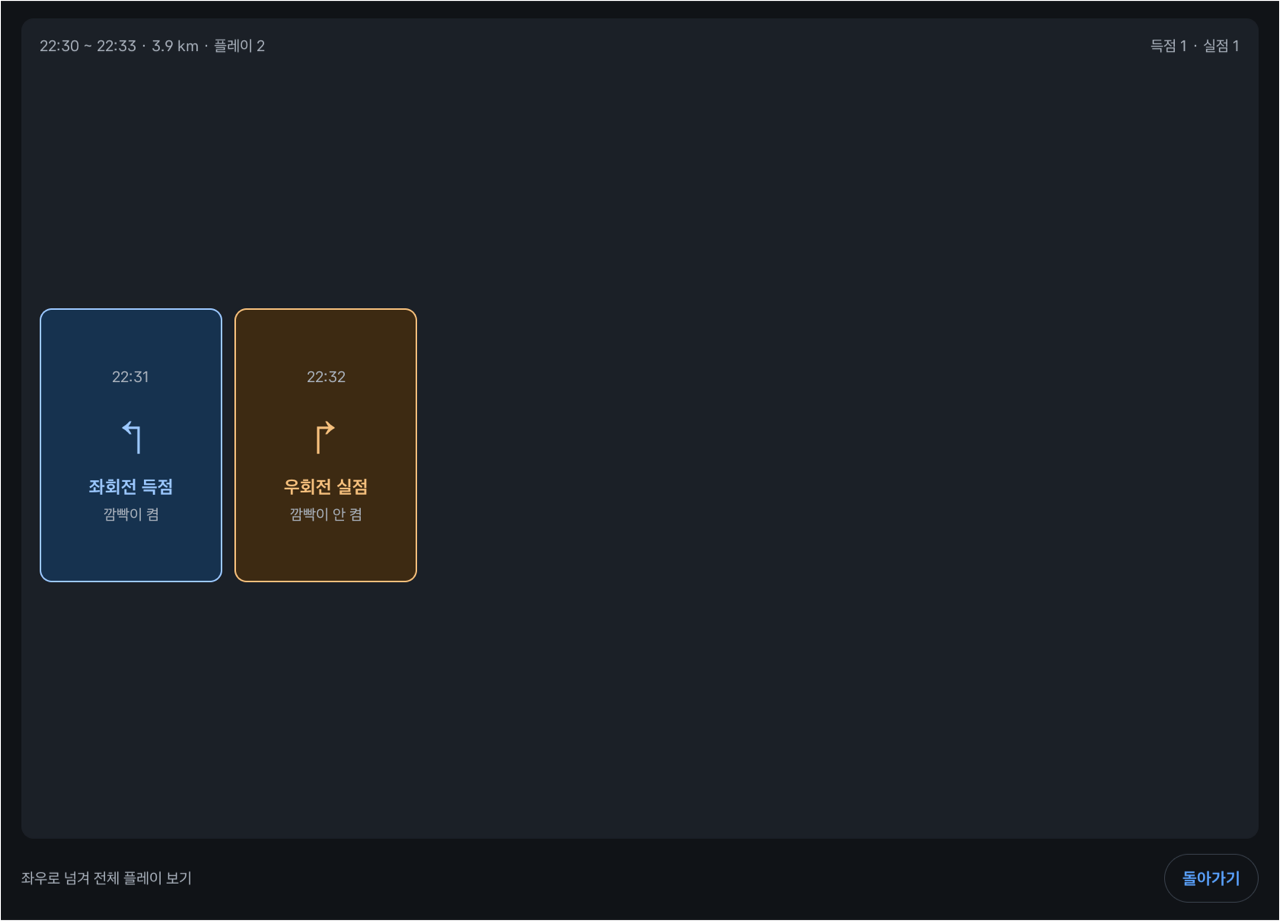
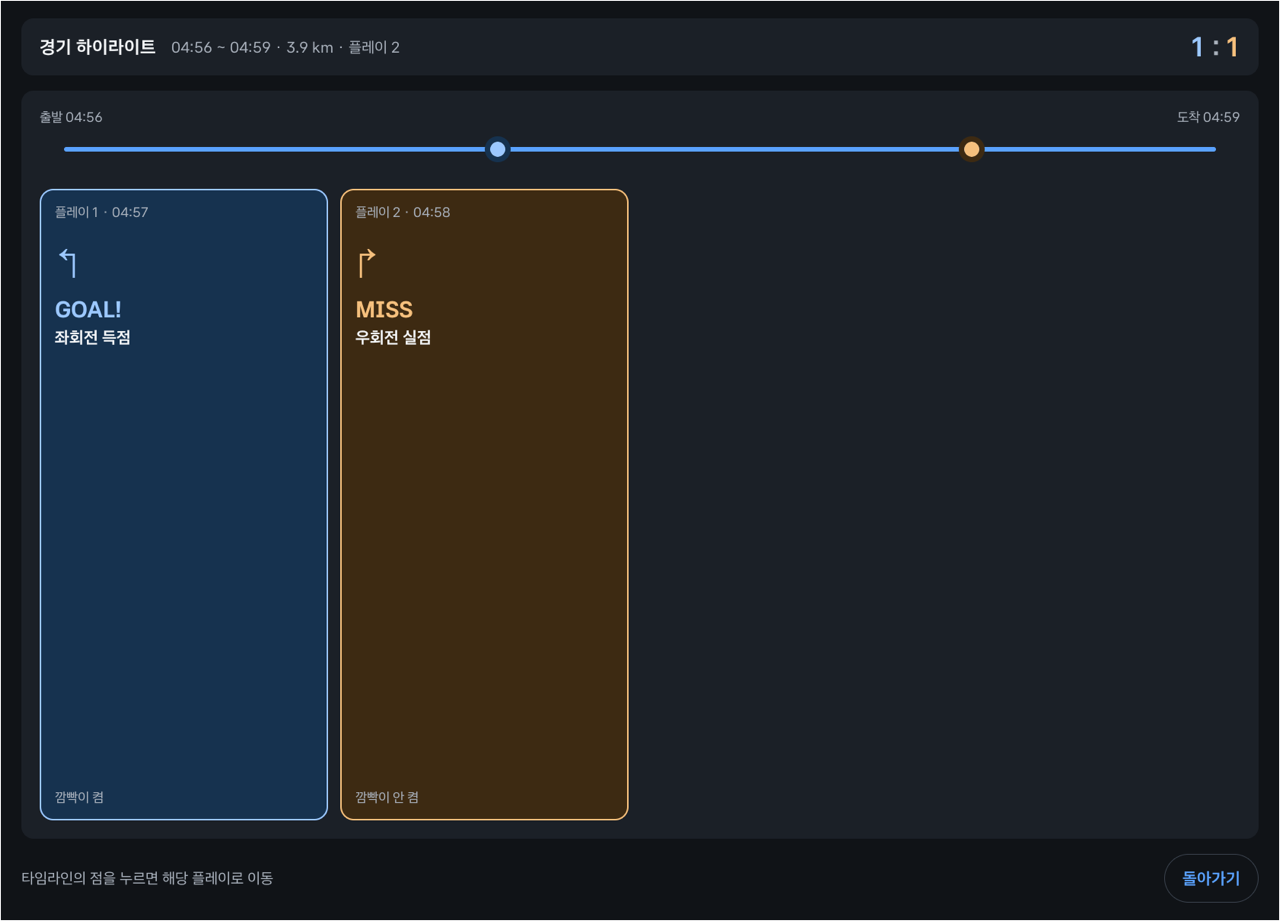
docs: README 화면 캡처를 정차 화면 게임 UI로 교체
홈 · 경기 결과 · 플레이 타임라인 · 항목 상세 · 퀘스트 · 리그 · 업적 · 설정 8장을 Pleos 에뮬레이터에서 다시 캡처(앱 영역 1682×1210dp → 1280×921). 코드가 바뀌지 않은 온보딩 · 지갑 · 주간 리포트는 유지

diff --git a/README.md b/README.md
@@ -18,7 +18,7 @@
 | **지갑** | **설정** | |
 | ![지갑](docs/screenshots/wallet.png) | ![설정](docs/screenshots/settings.png) | |
 
-> Pleos Connect 에뮬레이터의 앱 영역(1682×1210dp) 캡처
+> Pleos Connect 에뮬레이터의 앱 영역(1682×1210dp) 캡처 (11.15 정차 화면 게임 UI 반영. 온보딩 · 지갑 · 주간 리포트는 11.09 화면)
 
 ## ✅ 해야 할 일 (1차 제출 전)
 
